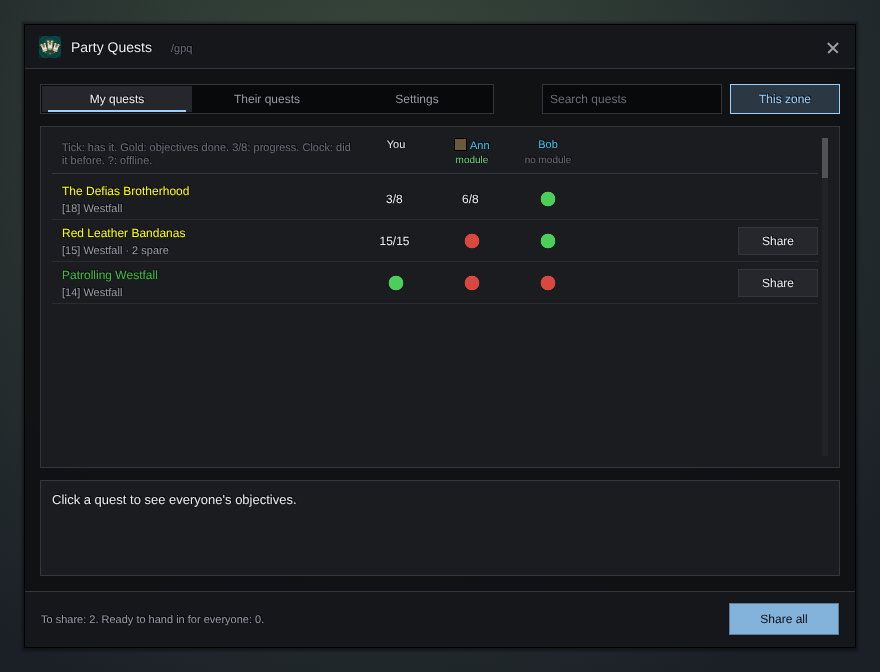
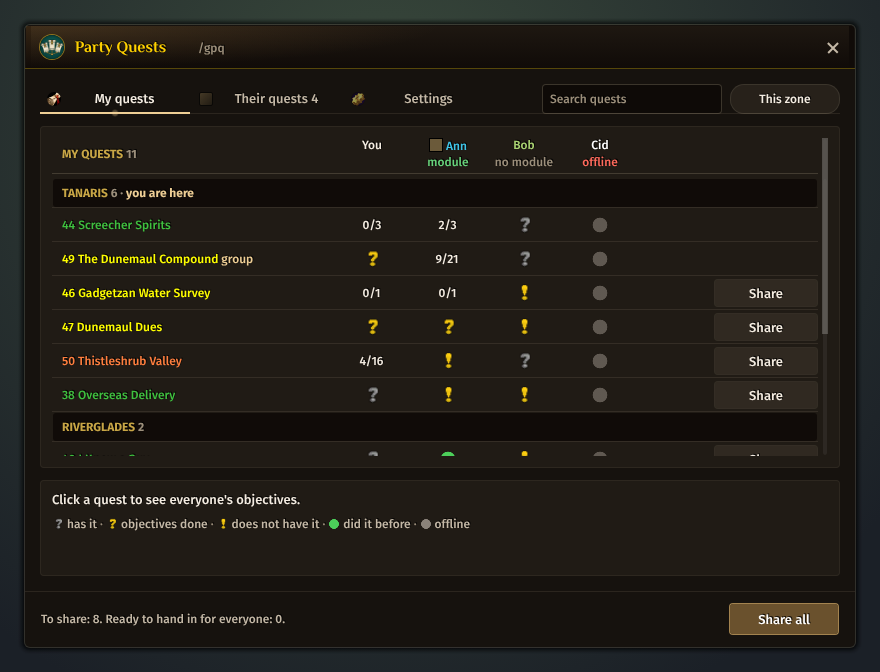
Party Quests 1.13.0: README, window picture, rules for the zone sections
Claude-Session: https://claude.ai/code/session_01HDZ3VabXZ6Vpv1ViTBn9rT

diff --git a/AGENTS.md b/AGENTS.md
@@ -72,7 +72,7 @@ Gulli Toolkit is a set of our own small World of Warcraft addons for WoW Forever
 Each one loads `Locales.lua`, `Core.lua`, `Skin.lua`, `UI.lua` (DungeonPrep adds `Data.lua` and `JournalData.lua` after `Locales.lua`, `Journal.lua` after `Core.lua` and `Tracker.lua` after `UI.lua`). `Core.lua` holds the rules and the game calls, `UI.lua` only shows them. Every module is tested in `tests/<name>/`.
 
 - **Gulli-Bulletin** (`/gbul`, `GulliBulletinDB`: `minutes` (0 = the session), `sessionV`, `myLevel`, `other`, `craftMode`, `craftProfs`, `sound`, `chat`, `popup`, `posts`, `blockNames`, `blockWords`, `watch`, `role`, `feed`). Reads `CHAT_MSG_CHANNEL`, `SAY` and `YELL`. `ns.Classify` sorts a message into `GROUP`, `WTS`, `WTB`, `CRAFT`, `GUILD` or `OTHER`; a crafting post is `LF` (asks for a crafter) or `OFFER` (offers a craft) with its profession (`ns.Craft`, `ns.PROFS`, words in `PROF_WORDS`, `LF_WORDS`, `OFFER_WORDS`; a new profession gets a key, its words, a `PROF_<KEY>` text and a test), filtered on the Crafting tab by `craftMode` and `craftProfs` (`ns.CraftShown`), finds the dungeon (`ns.DUNGEONS`: key, area id or nil for a Forever-only area named by `DG_<KEY>` in Locales, words; it sorts the Groups tab, there is no dungeon picker (owner's decision: players find groups with the group finder)) and the role (`LFM`, `LFG`). Only dungeons WoW Forever has are listed. A short or common word starts with `~` (weak): it names the dungeon only in a message that already asks for a group, and never as `<word> me`; each one gets a test it must not match. The watched words (`watch`, a comma list edited through `ns.AddWord`/`ns.RemoveWord`/`ns.WordList`, `ns.WordCount` on the board) are the only alert: a new post with one rings (`ns.Watch`: `sound`, `chat`, `Notify`, and with `popup` an `S.Toast` with Ask or Invite for a group and Whisper). The posts live in `db.posts` for the session: a `/reload` keeps them, `PLAYER_ENTERING_WORLD` with isInitialLogin clears them, and `minutes` above 0 drops older ones (`ns.Expire`). An LFM keeps the roles it asks for (`ns.Needs`, words in `ROLE_WORDS`), the poster's class (from the chat GUID) and the first item link. **Ask** whispers `ns.AskText` (level, class, `db.role`). Blocked players and words never reach the board (`ns.Blocked`). One poster keeps one post per kind (`ns.Add`). `ns.HubSummary` is the hub's home line (groups, trade posts). The small feed shows the posts with a watched word, or the newest groups without words (`ns.FeedItems`). A new kind gets its words in `WORDS` (in `Core.lua`), a tab and a test; a new dungeon word goes into `ns.DUNGEONS` with a test. Matching is on lowercased text (`lowerUtf8` handles Cyrillic and Latin-1). Messages may be secret values in WoW 12: skip them (`issecretvalue`).
-- **Gulli-PartyQuests** (`/gpq`, `/gpq share`; `GulliPartyQuestsDB`: `zoneOnly`, `autoShare`, `track`, `tooltip`, `sound`, `nAccept`, `nObjective`, `nComplete`, `nTurnin`, `nAll`; defaults in `ns.DEFAULTS`, read through `ns.Get`). `ns.Ours` compares the player's log with each member (`C_QuestLog.IsUnitOnQuest`) into cells `has`, `done`, `no`, `turned` (did it before) or `unknown` (offline), with progress when the member's module sent it; `ns.Status` says whether a member runs the module (`fresh`, `stale` after 5 minutes, `none`, `offline`); `ns.Summary` is the line about the group. `ns.Theirs` comes from addon messages on the prefix `GulliPQ` (`ns.Encode`/`ns.Receive`, at most 240 characters per message): inside a `B`...`E` list, `Q` quest ids, `O` objectives, `C` quests of the others the sender did before; alone, `R<id>:<name>` asks one member to share and `T<id>` asks everyone to track. The message format is a contract between versions: add a new message type, never change an old one. `ns.Diff` turns two lists of a member into news (`ns.Announce`, each kind behind its switch); `ns.ShareAll` shares one quest per second; `ns.ShareReply` reads the game's share answers. The tooltip lines (`ns.TooltipLines`) match a mob or item name to the whole objective name.
+- **Gulli-PartyQuests** (`/gpq`, `/gpq share`; `GulliPartyQuestsDB`: `zoneOnly`, `autoShare`, `track`, `tooltip`, `sound`, `nAccept`, `nObjective`, `nComplete`, `nTurnin`, `nAll`; defaults in `ns.DEFAULTS`, read through `ns.Get`). `ns.Ours` compares the player's log with each member (`C_QuestLog.IsUnitOnQuest`) into cells `has`, `done`, `no`, `turned` (did it before) or `unknown` (offline), with progress when the member's module sent it; `ns.Status` says whether a member runs the module (`fresh`, `stale` after 5 minutes, `none`, `offline`); `ns.Summary` is the line about the group. `ns.Theirs` comes from addon messages on the prefix `GulliPQ` (`ns.Encode`/`ns.Receive`, at most 240 characters per message): inside a `B`...`E` list, `Q` quest ids, `O` objectives, `C` quests of the others the sender did before, `Z<zone>|id:level,...` the zone (the quest log header) and level of quests, one zone per part; alone, `R<id>:<name>` asks one member to share and `T<id>` asks everyone to track. The message format is a contract between versions: add a new message type, never change an old one. `ns.Diff` turns two lists of a member into news (`ns.Announce`, each kind behind its switch); `ns.ShareAll` shares one quest per second; `ns.ShareReply` reads the game's share answers. The tooltip lines (`ns.TooltipLines`) match a mob or item name to the whole objective name. Both lists show zone by zone through `ns.ByZone` (a `head` entry, then the zone's entries; the player's zone first, entries without a zone last), which `UI.lua` only draws. A member cell is the game's quest mark of its state (`ICON` in `UI.lua`: grey "?" has it, yellow "?" done, yellow "!" does not have it, a tick did it before) with a tooltip in words; there is no legend sentence. A new cell state gets its mark there, a `CELL_` text and a place in `LEGEND`.
 - **Gulli-InstanceLimit** (`/gil`, `GulliInstanceLimitDB`: `entries` (with run stats `out`, `secs`, `xp`, `money`, `kills`), `open`, `limit`, `dayLimit`, `confirmed`, `fromExit`, `warnAt`, `warnDayAt`, `freeAlert`, `sound`, `summary`, `tellGroup`, `sync`, `badgeMode`, `badgeScale`, `badgeAlpha`, `badgePoint`, `badgeWas` (the mode before the hub's switch hid it); defaults in `ns.DEFAULTS`). Counts a party or raid map once until a reset, a group change or an hour (`ns.Entered`, `ns.Reopen`); `ns.Status` gives what is left, the wait and `by` (the limit that blocks); `ns.When` is the entry or, with `fromExit`, the exit. `TRANSFER_ABORT_TOO_MANY_INSTANCES` teaches it the real limit and confirms it (`ns.Refused`); more entries than the limit raise it. `ns.Tick` says once when an entry frees. Group members share over addon messages on `GulliIL` (`RESET\t<dungeon>`, `STATE\t<hour>\t<day>\t<wait>`, `HELLO`): add a new message type, never change an old one. A new counter mode goes into `ns.BADGE_MODES` with a `MODE_<KEY>` text. The Forever limits are not verified; keep them settings.
 - **Gulli-Attune** (`/gat`, `GulliAttuneDB`: `chars`, `settings` (`groupMsg`, `tooltip`, `announce`, `onlyAvail`, `hideEmpty`; defaults in `ns.DEFAULTS`, each change through `ns.Set`)). `ns.RAIDS` lists each raid attunement and quest-chain dungeon key with its quest chain (or `anyOf` steps), faction, the item it gives and where the first step starts, raids first, then the keys. A step follows the one above it unless it names `after` (quest ids), so steps with the same `after` run side by side (the Tests of Skulls); `tag` marks it `elite` or `raid` (a step in a dungeon area is `dungeon` anyway). `ns.Progress` gives `nexts` (every open step), `next` and `pct`. `ns.INFO` (quest -> level, starter x, y, items asked for) is the output of `tools/attune/check_data.py <questiedb> --info`; paste it again when a step is added. Only what WoW Forever has: a raid that Forever has not opened (Molten Core, Blackwing Lair, Naxxramas today) is not listed, and comes in when Blizzard opens it. A new raid, key or step goes there with a `RAID_<KEY>` and `SHORT_<KEY>` text in every language and a test; quest ids come from QuestieDB. `tools/attune/check_data.py <questiedb>` checks every step against the Forever data and lists new candidate quests not in `tools/attune/seen.txt`. Group and guild share progress over addon messages on `GulliAT` (`S\t<ns.Short>` a state, `H` a question): add a new message type, never change an old one. `ns.Export` writes `GAT1;<char>:<class>:<level>:<short>;...`.
 - **Junk rules** (`Junk.lua`, shared by Merchant and BagSpace as `ns.J`). The original is `Gulli-Merchant/Junk.lua`; `tools/junk/sync.sh` copies it into `Gulli-BagSpace`, and CI fails when the copies differ. `J.Tier(it, opts)` says what is junk (1 gray or the "always sell" list, 2 white gear and, with `opts.unusable`, bound gear the class cannot use (`J.CAN_USE`), 3 other white items); `J.Never` keeps quest items, keys, profession tools (`J.TOOLS`), fishing poles, equipment set items, the hearthstone and protected items out. Each addon keeps its own `junk` list in its saved variables and attaches it (`J.Attach`), so `J.SetAlways` marks both. `J.Sell` sells in steps of 12; `J.InstallMarks` adds the tooltip line, the coin on junk slots and Alt+click once, even with both loaded. A new junk rule goes into `Junk.lua` with a test in both modules' tests.

diff --git a/docs/partyquests/README.md b/docs/partyquests/README.md
@@ -18,7 +18,8 @@ Before you leave town with a group, you want to know: who has which quest? Gulli
 
 ## Features
 
-- **Your quests against your group.** One row per quest, one column per player: a tick has it, gold is done, red does not have it, a clock did it before, **?** is offline.
+- **Your quests against your group.** One row per quest, one column per player, with the game's own quest marks: a grey **?** has it, a yellow **?** is ready to hand in, a yellow **!** does not have it yet, a tick did it before. Point at a mark to read it in words.
+- **Zone by zone.** The list is cut into zones, and the zone you are in comes first. "Their quests" shows zones too, when your friends run the module.
 - **Progress of everyone.** When a friend runs Gulli Party Quests too, the cell shows how far they are (**3/8**). Tap a quest to see everyone's objectives.
 - **Who runs the module.** Under each name: **module**, **old data** or **no module**, so you know what the cells can tell.
 - **One line about the group.** "To share: 2. Ready to hand in for everyone: 1", or "The group is in sync".
